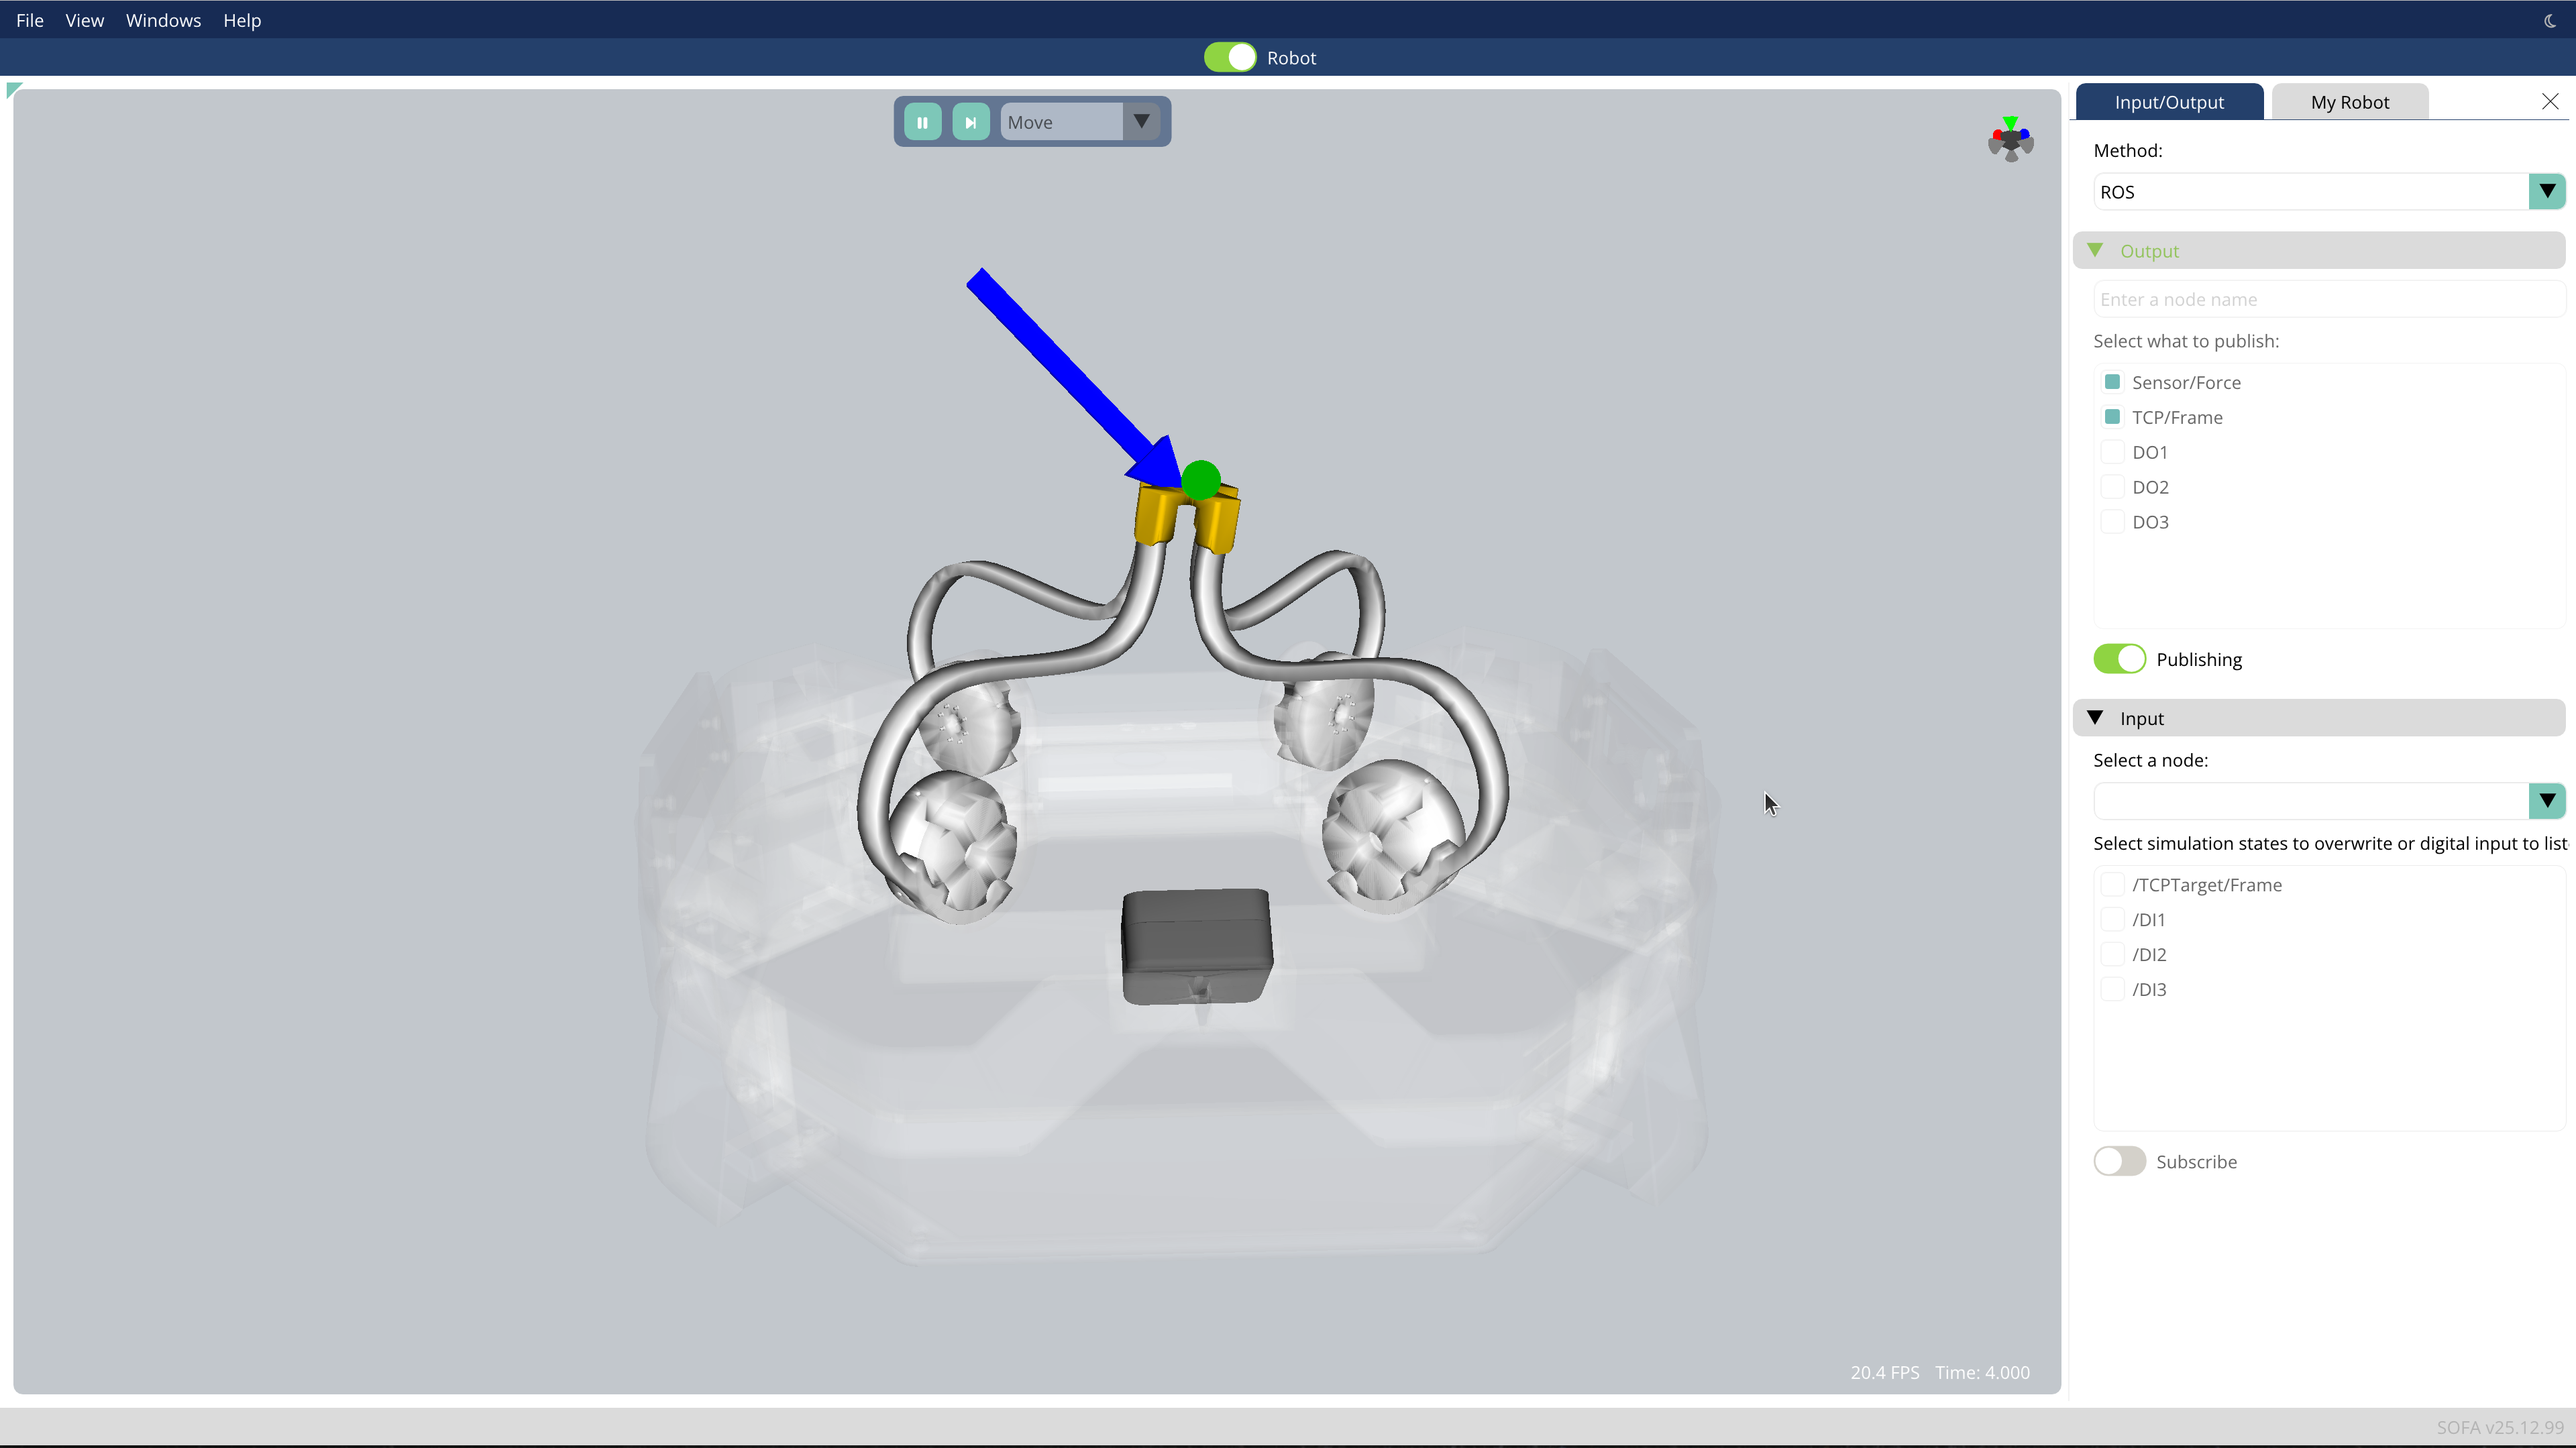
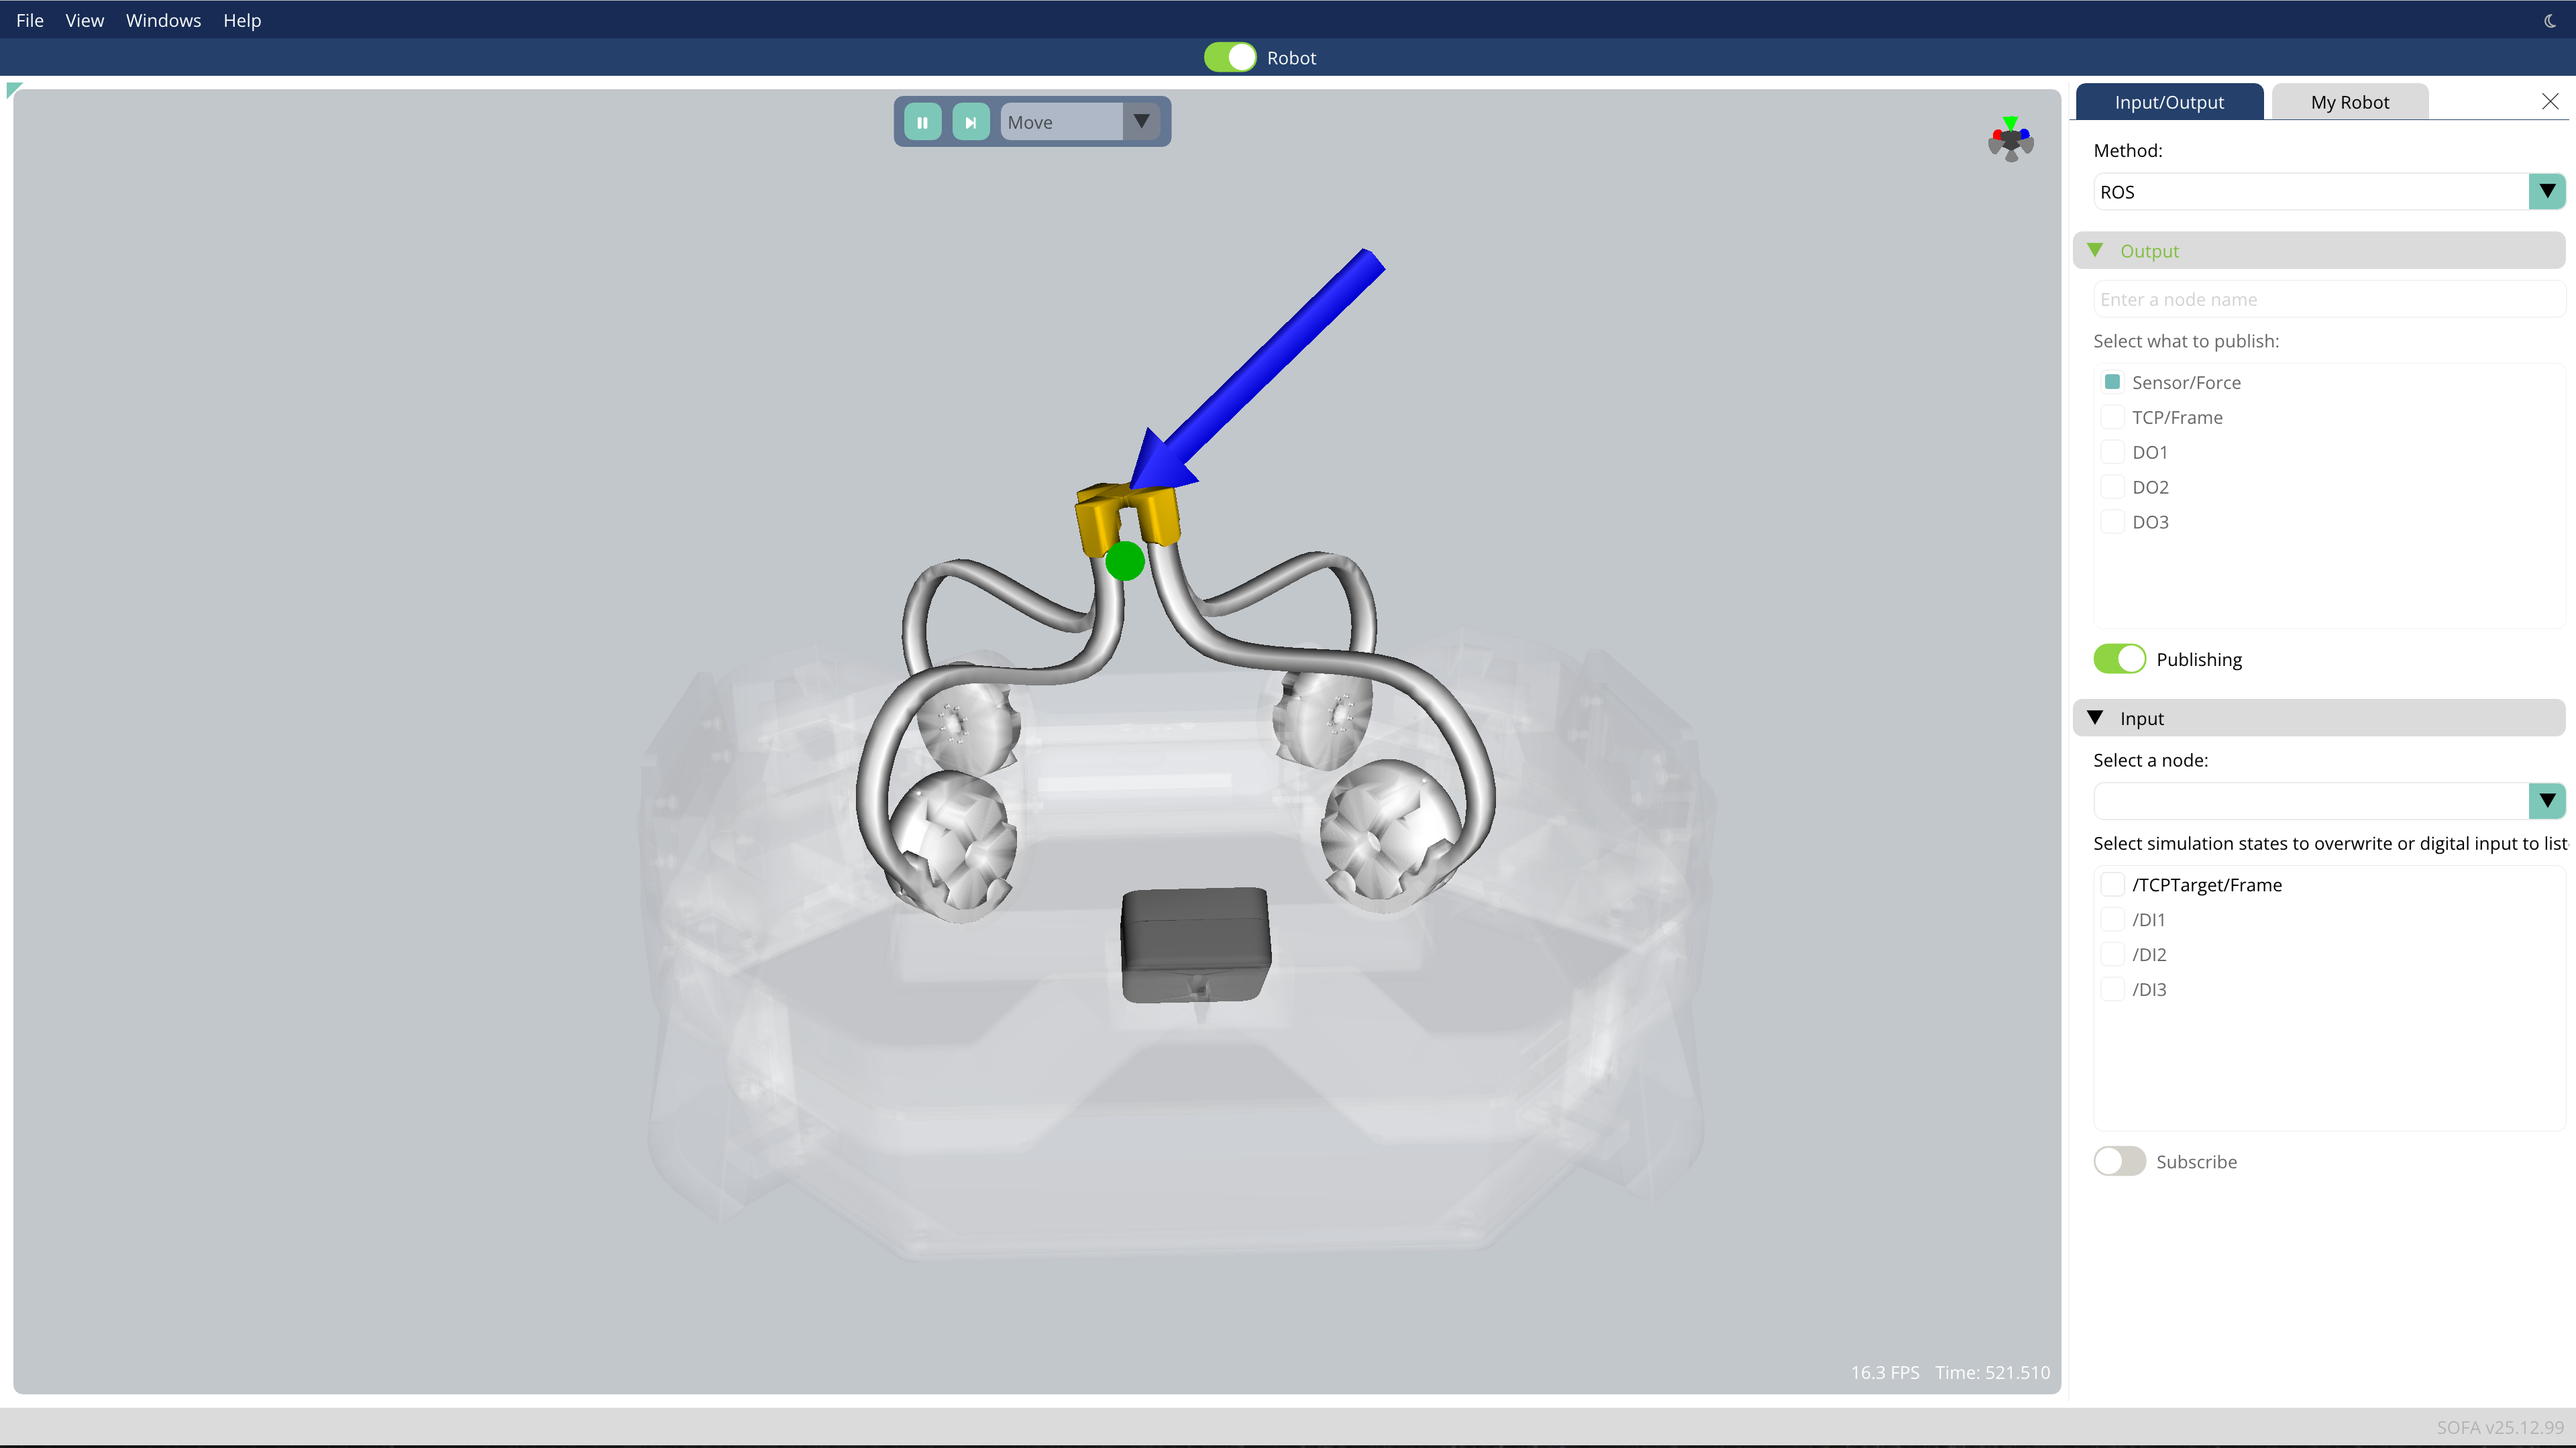
set a maximum speed on the manupilator simulation

Changed region(s): [[0.3125, 0.1862, 0.5938, 0.6207], [0.375, 0.1862, 0.4062, 0.2483], [0.3438, 0.5896, 0.375, 0.6207]]

diff --git a/gatewayTCPTarget.py b/gatewayTCPTarget.py
@@ -49,6 +49,8 @@ class GatewayEmioJoystick(Node):
             self.get_logger().error(f'[GatewayEmioJoystick] Invalid message length: {len(msg.data)}')
             return
 
+        print("Listening Force:", msg.data)
+
         # Copy last position
         force_msg = msg.data
         position = [0., 0., 0., 0., 0., 0., 1.]
@@ -71,12 +73,15 @@ class GatewayEmioJoystick(Node):
 
         # Clamp the position values to the range [-250, -175] in y direction
         position[0] = max(-40, min(position[0], 40))
+        print(position[1])
+        print(force_msg[1])
         position[1] = max(-250, min(position[1], -175))
         position[2] = max(-40, min(position[2], 40))
 
         # Forward the message to the publisher
         position_msg = Float32MultiArray()
         position_msg.data = position
+        print("Publishing position:", position_msg.data)
         self.publisher.publish(position_msg)
 
 
@@ -89,6 +94,7 @@ class GatewayEmioJoystick(Node):
             self.get_logger().error(f'[GatewayEmioJoystick] Invalid message length: {len(msg.data)}')
             return
 
+        print("Listening position:", msg.data)
         for i in range(7):
             self.last_position[i] = msg.data[i]
 

diff --git a/demo_teleoperation.py b/demo_teleoperation.py
@@ -53,6 +53,7 @@ def createScene(rootnode):
 
     # Add inverse components and GUI
     emio.addInverseComponentAndGUI(effectorTarget.getMechanicalState().position.linkpath, barycentric=True)
+    emio.effector.EffectorCoord.maxSpeed.value = 20  # mm/s
     MyGui.MoveWindow.setTCPLimits(-100, 100,
                                     emio.motors[0].JointActuator.minAngle.value,
                                     emio.motors[0].JointActuator.maxAngle.value)

diff --git a/demo_sensing.md b/demo_sensing.md
@@ -11,7 +11,7 @@ In this demo, we will explore the sensing capabilities of Emio.
 
 ### Force Estimation Demo
 
-|![Simulation of the force estimation](assets/labs/demo_sensing/data/images/emio-sensing.png){width=80%}|
+|![Simulation of the force estimation](assets/labs/demo_sensing/data/images/emio-sensing.png){width=100%}|
 |:--------------------------------------------------------------------:|
 |**Simulation of the force estimation.**                               |
 
@@ -21,7 +21,7 @@ The problem we want to solve is to retrieve the force applied by the user on the
 
 1. Run the simulation by clicking the button below, then press the play button to start the simulation (top middle of the 3D view). Set up the robot Emio like in the simulation, [connect the robot to your computer](https://docs-support.compliance-robotics.com/docs/next/Users/Emio/getting-started-with-emio/#connecting-emio-to-your-computer) and then [connect the simulation](https://docs-support.compliance-robotics.com/docs/next/Users/SOFARobotics/GUI-user-manual/#controlling-the-real-robot). You can now play with the demo. Move the effector of the real robot and observe the estimation of the force in the simulation. 
 
-#runsofa-button("assets/labs/demo_sensing/demo_sensing.py")
+    #runsofa-button("assets/labs/demo_sensing/demo_sensing.py")
 
 ::::
 
@@ -29,7 +29,7 @@ The problem we want to solve is to retrieve the force applied by the user on the
 
 ### Turtle Sim Demo
 
-|![Publishing the force using ROS2, and piloting the turtle sim.](assets/labs/demo_sensing/data/images/emio-sensing-turtlesim.png){width=80%}|
+|![Publishing the force using ROS2, and piloting the turtle sim.](assets/labs/demo_sensing/data/images/emio-sensing-turtlesim.png){width=100%}|
 |:--------------------------------------------------------------------:|
 |**Publishing the force using ROS2, and piloting the turtle sim.**                               |
 
@@ -48,10 +48,11 @@ We can use Emio as a joystick and ROS2 to control a turtle in the [TurtleSim](ht
     python gatewayTurtleNode.py
     ```
 
-3. Launch the simulation by clicking the Run SOFA button below.
-On the GUI, select the window __Windows>Input/Output__. From this window __Input/Output__, in the output section, select the topic __Sensor/Force__ and click toggle the __Publish__ button (see image above).
+3. Launch the simulation by clicking the Run SOFA button below. On the GUI (see image above):
+    1. From the __Input/Output__ window, in the __Output__ section, select the topic __Sensor/Force__
+    2. and then click the __Publish__ button 
+    #runsofa-button("assets/labs/demo_sensing/demo_sensing.py")
 
-#runsofa-button("assets/labs/demo_sensing/demo_sensing.py")
 
 ::::
 
@@ -59,15 +60,15 @@ On the GUI, select the window __Windows>Input/Output__. From this window __Input
 
 ### Tele-operation Demo
 
-|![Publishing the force using ROS2.](assets/labs/demo_sensing/data/images/emio-sensing-publishforce.png){width=80%}|
+We can use Emio as a joystick to control a second Emio robot, still using ROS2.
+
+|![Publishing the force using ROS2.](assets/labs/demo_sensing/data/images/emio-sensing-publishforce.png){width=100%}|
 |:--------------------------------------------------------------------:|
 |**Image 1. First simulation, publishing the force using ROS2.**                               |
 
-|![Subscription.](assets/labs/demo_sensing/data/images/emio-sensing-teleoperation.png){width=80%}|
+|![Subscription.](assets/labs/demo_sensing/data/images/emio-sensing-teleoperation.png){width=100%}|
 |:--------------------------------------------------------------------:|
 |**Image 2. Second simulation subscription to the TCP target publised by the GatewayTCPTarget script.**|
-
-We can use Emio as a joystick to control a second Emio robot, still using ROS2.
 
 1. In a terminal, from the demo_sensing directory, run the gateway script:
     ```command
@@ -76,16 +77,28 @@ We can use Emio as a joystick to control a second Emio robot, still using ROS2.
     python gatewayTCPTarget.py
     ```
 
-    This gateway script transforms the force estimated in the first simulation into a TCP target for the second robot.
-    This script subscribes to the topics __Sensor/Force__ and __TCP/Frame__ and publishes on the topic __TCPTarget/Frame__.
+    _This gateway script transforms the force estimated in the first simulation into a TCP target for the second robot.
+    This script subscribes to the topics __Sensor/Force__ and __TCP/Frame__ and publishes on the topic __TCPTarget/Frame__._
 
-2. In the first simulation (Run SOFA button below), publish the force on the topic __Sensor/Force__ and the TCP position on the topic __TCP/Frame__ by first clicking the corresponding checkboxes, and then clicking the button __Publish__ in the window __Windows>Input/Output__ (see Image 1.).
-#runsofa-button("assets/labs/demo_sensing/demo_sensing.py")  
+2. In the first simulation (Run SOFA button below), publish the force (see Image 1.):
+    1. From the __Input/Output__ window, in the __Output__ section, click the checkbox __Sensor/Force__
+    2. And then click the __Publish__ button
 
-3. Run a second simulation by clicking the button below, then press the play button to start the simulation. Set up the second robot Emio like in the simulation, [connect the robot to your computer](https://docs-support.compliance-robotics.com/docs/next/Users/Emio/getting-started-with-emio/#connecting-emio-to-your-computer) and then [connect the simulation](https://docs-support.compliance-robotics.com/docs/next/Users/SOFARobotics/GUI-user-manual/#controlling-the-real-robot). 
-In the window __Windows>Input/Output__, in the input section, select the topic __TCPTarget/Frame__ and click toggle the __Subscribe__ button.
-Select "IOWindow" from the menu in the 3D view, this will allow the window __Windows>Input/Output__ to control the TCP target in the simulation (see Image 2.). 
-You can now play with the demo. Move the effector of the first real robot and observe the motion of the second robot.
-#runsofa-button("assets/labs/demo_sensing/demo_teleoperation.py")  
+    #runsofa-button("assets/labs/demo_sensing/demo_sensing.py")  
+
+3. Run a second simulation by clicking the button below, then press the play button to start the simulation. Set up the second robot Emio like in the simulation, [connect the robot to your computer](https://docs-support.compliance-robotics.com/docs/next/Users/Emio/getting-started-with-emio/#connecting-emio-to-your-computer) and then [connect the simulation](https://docs-support.compliance-robotics.com/docs/next/Users/SOFARobotics/GUI-user-manual/#controlling-the-real-robot).  
+
+    Now set up the GUI (see Image 2.). From the __Input/Output__ window:
+
+    1. In the __Output__ section, click the checkbox __TCP/Frame__
+    2. And then click the __Publish__ button 
+    3. In the __Input__ section, click the checkbox __TCPTarget/Frame__
+    4. And then click the __Subscribe__ button   
+    5. Now in the 3D view, select __Input/Output__ from the dropdown menu.  
+    _This will allow the __Input/Output__ window to control the TCP target in the simulation._ 
+    
+    #runsofa-button("assets/labs/demo_sensing/demo_teleoperation.py")  
+
+You can now play with the demo. Move the effector of the _Joystick_ robot and observe the motion of the _Manipulator_ robot.
 
 ::::
